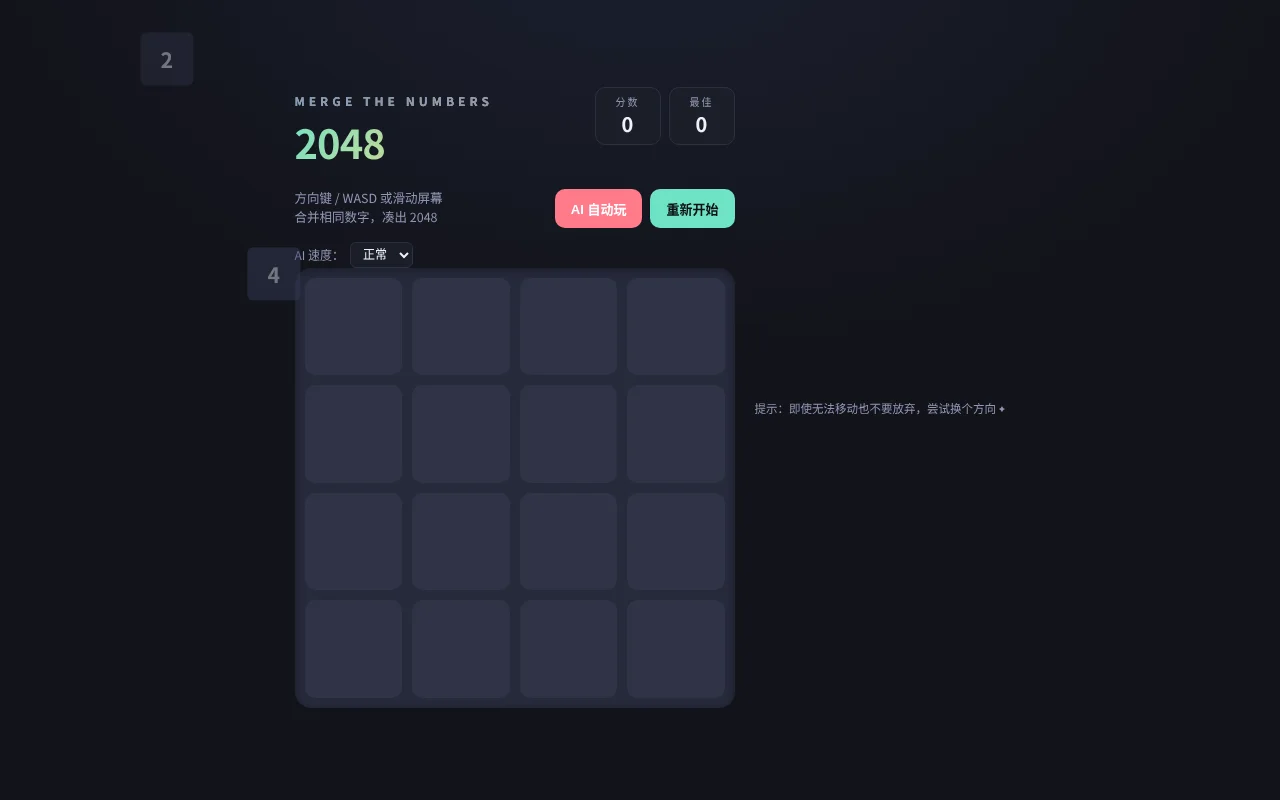
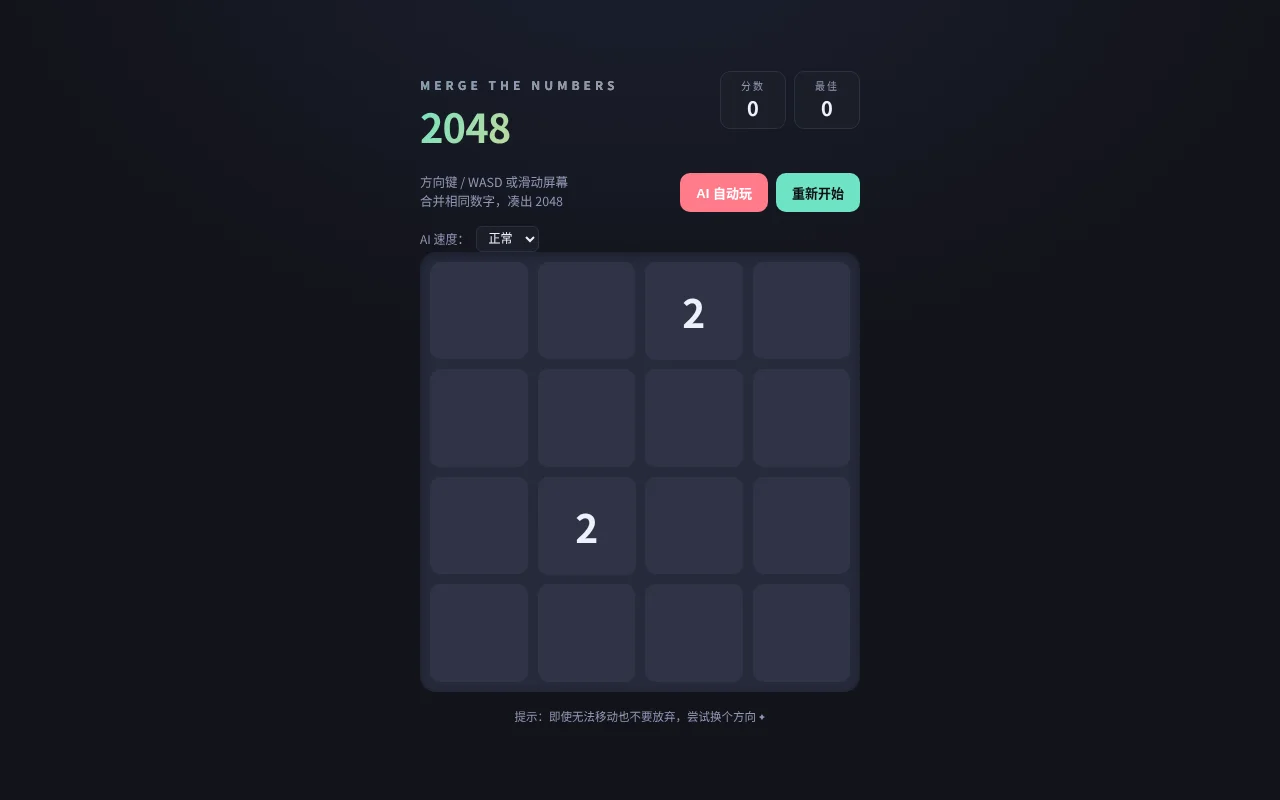
Fix game board DOM

diff --git a/wb1024-c330-43b1ead1/client/index.html b/wb1024-c330-43b1ead1/client/index.html
@@ -182,7 +182,7 @@
     </select>
   </div>
   <div class="board-wrap">
-    <div class="board" id="board"></div><div class="cell-bg"></div><div class="cell-bg"></div><div class="cell-bg"></div><div class="cell-bg"></div><div class="cell-bg"></div><div class="cell-bg"></div><div class="cell-bg"></div><div class="cell-bg"></div><div class="cell-bg"></div><div class="cell-bg"></div><div class="cell-bg"></div><div class="cell-bg"></div><div class="cell-bg"></div><div class="cell-bg"></div><div class="cell-bg"></div></div>
+    <div class="board" id="board"></div>
     <div class="tiles-layer" id="tilesLayer"></div>
     <div class="overlay" id="overlay">
       <h2 id="overlayText">游戏结束</h2>

diff --git a/wb1024-c330-43b1ead1/showcase/preview.html b/wb1024-c330-43b1ead1/showcase/preview.html
@@ -182,7 +182,7 @@
     </select>
   </div>
   <div class="board-wrap">
-    <div class="board" id="board"></div><div class="cell-bg"></div><div class="cell-bg"></div><div class="cell-bg"></div><div class="cell-bg"></div><div class="cell-bg"></div><div class="cell-bg"></div><div class="cell-bg"></div><div class="cell-bg"></div><div class="cell-bg"></div><div class="cell-bg"></div><div class="cell-bg"></div><div class="cell-bg"></div><div class="cell-bg"></div><div class="cell-bg"></div><div class="cell-bg"></div></div>
+    <div class="board" id="board"></div>
     <div class="tiles-layer" id="tilesLayer"></div>
     <div class="overlay" id="overlay">
       <h2 id="overlayText">游戏结束</h2>
